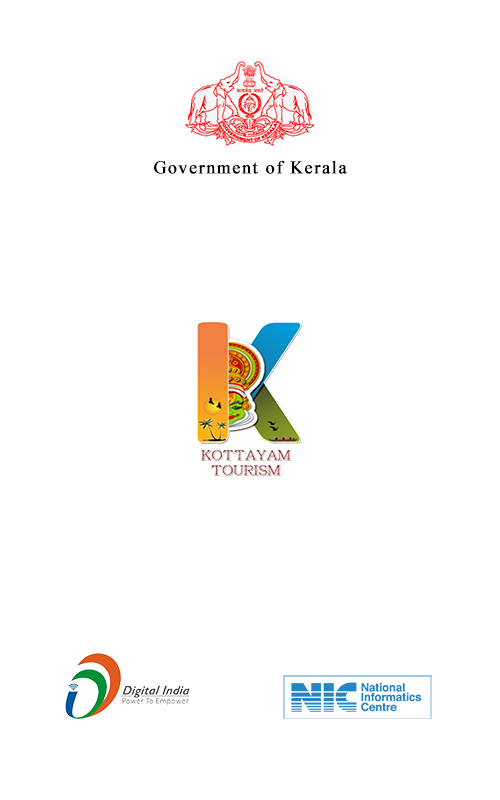
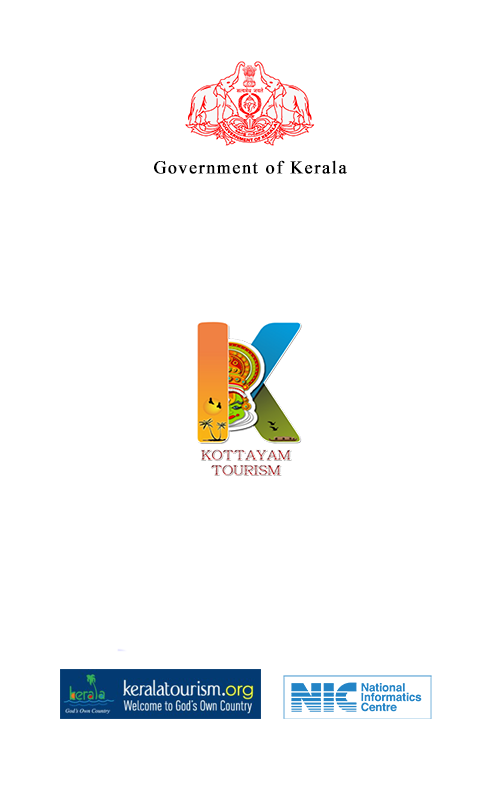
flash screen change and minor corrections

Changed region(s): [[0.12, 0.8125, 0.54, 0.9062]]

diff --git a/lib/Screens/MainHome/sampleMain2.dart b/lib/Screens/MainHome/sampleMain2.dart
@@ -76,7 +76,7 @@ class _MainSample2PageState extends State<MainSample2Page> {
         children: [
           Container(
             padding: EdgeInsets.symmetric(
-              vertical: 20.0,
+              vertical: 5.0,
             ),
             child: CarouselSlider.builder(
               itemCount: images.length,
@@ -85,7 +85,19 @@ class _MainSample2PageState extends State<MainSample2Page> {
                       Container(
                           margin: EdgeInsets.all(6.0),
                           decoration: BoxDecoration(
-                            borderRadius: BorderRadius.circular(8.0),
+                            // border: Border.all(
+                            //   color: Colors.teal,
+                            //   width: 5.0
+                            // ),
+                            boxShadow: [
+                              BoxShadow(
+                                color: Colors.grey.withOpacity(0.5),
+       // spreadRadius: 3,
+        blurRadius: 10,
+        offset: Offset(5, 5),
+                              )
+                            ],
+                            borderRadius: BorderRadius.circular(15.0),
                             image: DecorationImage(
                               image: AssetImage(images[itemIndex]),
                               fit: BoxFit.cover,
@@ -93,7 +105,7 @@ class _MainSample2PageState extends State<MainSample2Page> {
                           ),
                           alignment: Alignment.bottomCenter,
                           child: Padding(
-                              padding: EdgeInsets.only(left: 15.0, bottom: 15),
+                              padding: EdgeInsets.only(left: 15.0, bottom: 10),
                               child: Text(titles[itemIndex].toUpperCase(),
                                   style: Theme.of(context)
                                       .textTheme
@@ -101,9 +113,9 @@ class _MainSample2PageState extends State<MainSample2Page> {
                                       ?.apply(
                                         color: Colors.white,
                                         backgroundColor:
-                                            Colors.black.withOpacity(0.5),
+                                            Colors.black.withOpacity(0.3),
                                       )
-                                      .copyWith(letterSpacing: 1)))),
+                                      .copyWith(letterSpacing: 2)))),
               options: CarouselOptions(
                   height: 180.0,
                   enlargeCenterPage: true,
